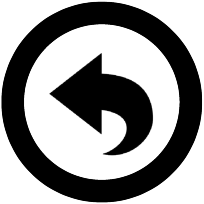
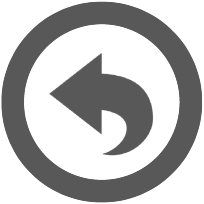
Står GAME PAUSED på pausskärmen nu också. Gjort back-knappen samma färg som kugghjulet.

diff --git a/carstorm.js b/carstorm.js
@@ -31,6 +31,7 @@ var Height4K = 2160;
 // textFiveRows is simply ScreenHeight / 5, so we can easily put large text on five rows.
 var textFourRows;
 var textFiveRows;
+var textSevenRows;
 var textTenRows;
 var textTwelveRows;
 var textThirteenRows;
@@ -575,6 +576,7 @@ function Resize()
   
   textFourRows = ScreenHeight / 4;
   textFiveRows = ScreenHeight / 5;
+  textSevenRows = ScreenHeight / 7;
   textTenRows = ScreenHeight / 10;
   textTwelveRows = ScreenHeight / 12;
   textThirteenRows = ScreenHeight / 13;
@@ -2088,6 +2090,8 @@ function GameLoopPaused()
       
   topctx.fillStyle = "black";
   topctx.textAlign = "center";
+  topctx.font = textSevenRows + "px CarStormFont2";
+  topctx.fillText("GAME PAUSED", screenwidthHalf, textFifteenRows * 6);
   topctx.font = textFifteenRows + "px CarStormFont1";
   topctx.fillText(txtTouchScreenToContinue, screenwidthHalf, textFifteenRows * 8);
 }
